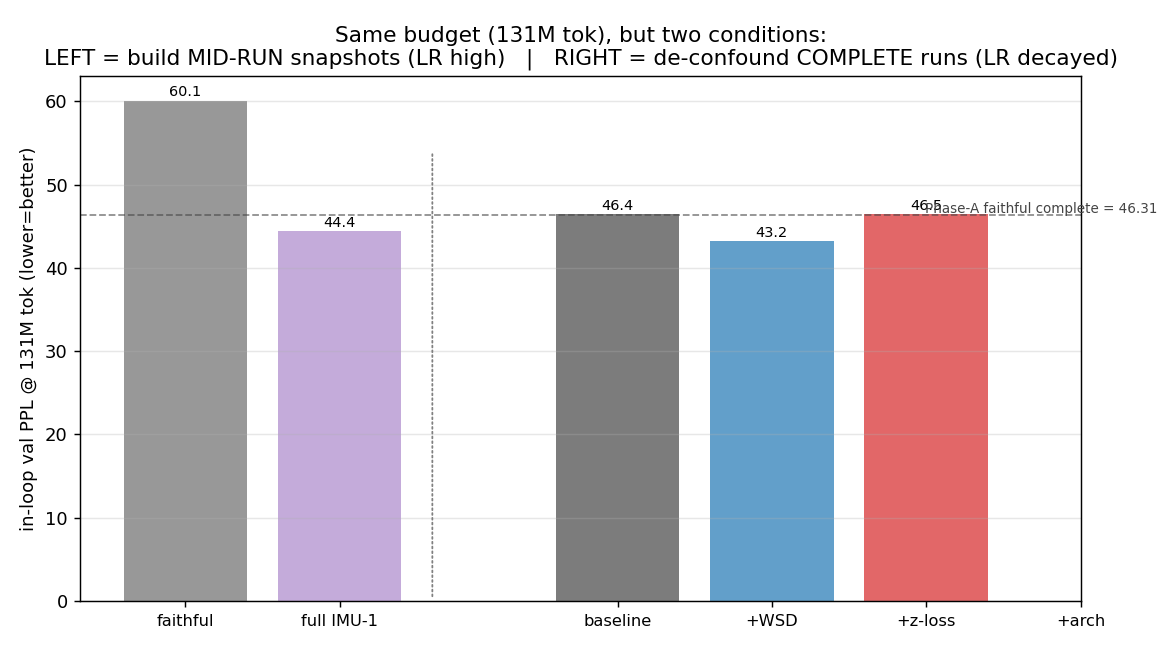
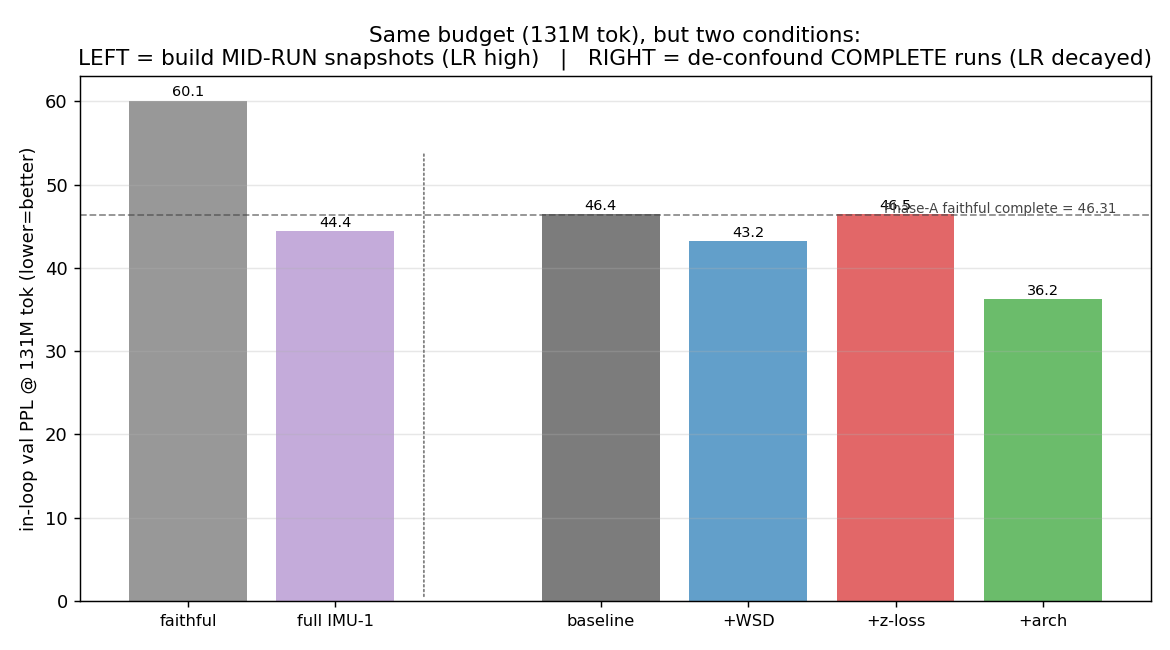
Qwen3-0.6B: refresh deconfound — arch modules are the dominant IMU-1 driver, not WSD
Phase-1 update (11/12 cells; arch arm 2/3 seeds): the attribution flipped once +arch ran.
In-loop val PPL @ 131M-tok proxy:
  baseline 46.44 | +z-loss 46.47 (null) | +WSD 43.24 (-7%) | +arch 36.20 (-22%, dominant)
So the IMU-1 -17.9% win is primarily the 3 architecture modules (value residuals +
LayerNorm-scaling + per-head gating, IMU-1 Eq.3/4/5), with WSD a real secondary driver.
README status/gallery/live-progress updated; deconfound plots regenerated to include arch.
(In-loop PPL; canonical eval-harness BPB+CI verdict lands when the cohort completes.)

diff --git a/Qwen3-0.6B/README.md b/Qwen3-0.6B/README.md
@@ -12,9 +12,10 @@ matched compute — whether they beat the faithful baseline.
 > win** (gap to original 2.14× → **1.76×**) · partial-RoPE 0.25 **29.54 (loses,
 > +3.1%)**; 0.10 abandoned at ~30% (50.71 @ step 4000, also losing). **But the
 > IMU-1 win is a confounded bundle** (NorMuon + WSD + z-loss + 3 arch tweaks).
-> **Now de-confounding it** (run `2026-06-18_…imu1-deconfound-p1`, 6/12 cells done):
-> a single-variable, 3-seed ladder. **Preliminary** (in-loop val PPL, not the final
-> BPB verdict): **+WSD tracking as a significant driver** (+6.9%, 95% CI [+0.90, +5.51])
+> **Now de-confounding it** (run `2026-06-18_…imu1-deconfound-p1`, **11/12 cells done**):
+> a single-variable, 3-seed ladder. **Preliminary** (in-loop val PPL, not the final BPB
+> verdict): **the architecture modules are the dominant driver** — +arch **−22%** (36.2 vs
+> baseline 46.4), with +WSD secondary (**−7%**) and +z-loss null (≈0)
 > — see [End-to-end lifecycle](#end-to-end-lifecycle--what-weve-done--whats-next).
 
 > **This is an index.** Each build has its own detailed README — see
@@ -138,9 +139,12 @@ AdamW by **+0.474 bpb on wikitext-2 (95% CI [0.444, 0.505])** and +0.502 on code
 
 *Which* component of the IMU-1 bundle drives the -17.9%? A single-variable, 3-seed,
 iso-FLOP ladder at a matched **131M-token / 2000-step proxy** (baseline vs +WSD vs +z-loss
-vs +arch, all AdamW). **Preliminary (9/12 cells done; the +arch arm is running):** **+WSD is
-the driver** — 43.2 vs baseline 46.4 (~7%); **+z-loss is flat** (46.5); **+arch pending**.
-(In-loop val PPL; the canonical eval-harness BPB verdict lands when all 12 cells finish.)
+vs +arch, all AdamW). **Preliminary (11/12 cells done; arch arm 2/3 seeds, last confirming):**
+**the architecture modules (+arch) are the dominant driver** — 36.2 vs baseline 46.4 (**−22%**),
+below baseline at every logged step; **+WSD** secondary (43.2, **−7%**); **+z-loss** null (46.5, ≈0).
+The three arch modules: value residuals + LayerNorm-scaling + per-head gating (IMU-1, no
+optimizer/schedule change in this arm). (In-loop val PPL; the canonical eval-harness BPB verdict
+with across-seed CIs lands when all 12 cells finish.)
 The honest same-step caveat is built in: the deconfound arms are *complete* 2000-step runs
 (LR fully decayed), while a build's "step 2000" is a *mid-run* snapshot of an 18,150-step run
 (LR still high) — so the valid cross-check is deconfound-baseline (46.4) ≈ Phase-A faithful
@@ -220,13 +224,16 @@ pre-wired: `score_cohort.py` (scores all 12 checkpoints — uses `model_imu1` wi
 arch flags so the +arch checkpoints load) → `verdict.py` (`seed_delta_significant`, 15
 tests green) → auto-fired by the conditional `post_cohort.sh` watcher on `cohort.done`.
 
-**Live progress (Jun 19 — 6/12 cells done):** baseline ✓✓✓ · wsd ✓✓✓ · zloss (running) ·
-arch (queued). **Preliminary +WSD signal** — *in-loop val PPL* (the trainer's quick eval,
-NOT yet the canonical eval-harness BPB verdict): baseline **46.44 ±0.35** vs +WSD **43.24
-±0.63** → Δ **+6.9%**, 95% CI **[+0.90, +5.51]**, **significant across 3 seeds** → WSD is
-tracking as a real driver of the IMU-1 gain (mechanistically expected — WSD anneals the LR
-to zero over the last 20%, sharpening the final loss vs cosine-to-floor). The rigorous
-per-axis BPB verdict lands when all 12 cells finish.
+**Live progress (Jun 21 — 11/12 cells done):** baseline ✓✓✓ · wsd ✓✓✓ · zloss ✓✓✓ ·
+arch ✓✓ (seed2 running). **The attribution flipped once +arch ran** — *in-loop val PPL*
+(the trainer's quick eval, NOT yet the canonical eval-harness BPB verdict): baseline **46.44**,
++z-loss **46.47** (null), +WSD **43.24** (**−6.9%**), and **+arch 36.20** (**−22.1%**; seeds
+36.21 / 36.19, and below baseline at *every* logged step 500→2000). So the IMU-1 win is
+**primarily the architecture modules** — value residuals + LayerNorm-scaling + per-head gating
+(IMU-1 Eq.3/4/5) — with WSD a real secondary driver and z-loss doing nothing. (Earlier this
+section read "+WSD is the driver"; that was before the arch arm ran. arch n=2 → n=3 when seed2
+finishes.) The rigorous per-axis BPB verdict (across-seed 95% CIs) lands when `arch_seed2`
+finishes and `cohort.done` fires the scorer.
 
 **GB10 memory engineering (a real single-box lesson).** The full 151,936-vocab logits make
 `torch.compile`'s startup transiently spike the **unified pool to ~80.7%**, tripping the
